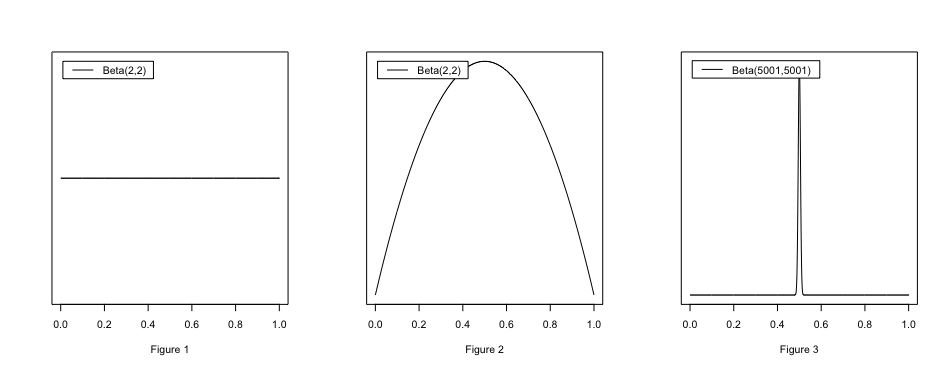
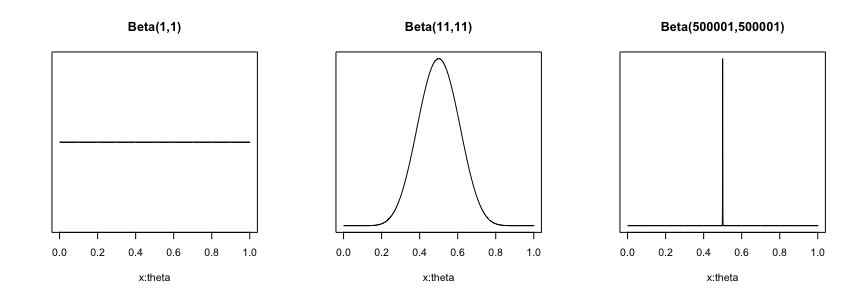
last before deleting intervalic approach and indeterminate prob section.

diff --git a/src/weight-chapter.md b/src/weight-chapter.md
@@ -183,7 +183,7 @@ I have argued for premise 2. I suggest that Popper intends premise 3 to be a con
 
 ## Severity as a Frequentist Notion of Weight -->
 
-# Weight as Higher Order Relevance
+# Higher Order Relevance
 
 Popper's argument contains a  sleight of hand that subtlely shifts between two ways of thinking about $N$'s probability. The argument begins by asking, rather innocuously, for your prior for $N$, but the ideal evidence $I$ Popper immediately introduced is not for $N$ but for the hypothesis $H_{0.5}$. Popper is explicit about *that*, but what he is not explicit about is *this*: he convinced us that $I$ is both evidentially ideal and relevant to $H_{0.5}$, but that's a misdirection, because immediately he starts talking the conditional probability on $I$, *not* of $H_{0.5}$, but of $N$. So Popper's paradox is *really* as follows:
 
@@ -239,23 +239,36 @@ Now these random variables can be modeled as follows:
 $$\theta \sim Beta(\alpha, \beta)$$
 $$X_1,...X_i \sim Bern(\theta)$$
 
-The Beta distribution has two parameters, $\alpha>0$ and $\beta>0$, which can be thought of as, in our context, our past experience about the coin's propensity. For instance, 
+The Beta distribution has two parameters, $\alpha>0$ and $\beta>0$, which can be thought of as, in our context, our past experience about the coin's propensity. For instance, $\alpha = \beta = 1$ is equivalent to a uniform distribution (Figure 1 below), which captures the Principle of Indifference. Furthermore, the Beta distribution, because it is a *conjugate prior* for the Bernoulli distribution, provides a simple way to update the prior distribution based on data gathered from a Bernoulli process. That is, take any arbitrary $\alpha$ and $\beta$ for the Beta distribution - the prior distribution $p(\theta)$ and some data $x$ gathered from a Bernoulli process. Its posterior distribution
 
-More important, it is a conjugate prior for the Bernoulli distribution, and this provides a simple way to update the prior distribution based on data gathered from a Bernoulli process. Consider some unknown , which is modeled by the beta distribution and a parameter for a Bernoulli distribution, and radome samples , that is
+$$ p(\theta|x) = \frac{p(\theta)p(x|\theta)}{\int p(\theta')p(x|\theta')}$$
+
+is simply $Beta(\alpha + k, \beta + n - k)$ - a Beta distribution with parameters $\alpha$ plus the number of heads $k$ and beta the number of tails.
+
+Furthermore, the Beta distribution is an expression of Laplace's rule of succession, discussed earlier. This is because its expected value has the form:
+
+$$E(\theta) = \frac{\alpha}{\alpha + \beta}$$
+
+Now, because of conjugacy, the *posterior* expected value is simply:
+
+$$E(\theta) = \frac{\alpha + k}{\alpha + \beta + n}$$
+
+where $x$ is the number of success and $n$ is the number of trials. If we assume a *uniform prior*, where both parameters equal to $1$, the above formula becomes:
 
 
+$$E(\theta) = \frac{1 + k}{2 + n}$$
 
-The posterior distribution
+That is, Laplace's rule of succession. So despite
 
-is simply beta distribution with parameters  and . In other words, we can simply update the prior distribution by adding the number of heads to  and the number of tails to .
+We can now reframe the paradox of ideal evidence using the Beta and Bernoulli distributions. Consider three beta distributions:
 
-Furthermore, the beta distribution with a uniform prior is an expression of Laplace's rule of succession. This is if  the expected value of  is
+1. $Beta(1,1)$:
+2. $Beta(11,11)$
+3. $Beta(500,001,500,001)$
 
-So when the prior parameters are both 1 and we have  heads out of  throws, the posterior distribution would be
+Note that all three distributions have the same expected values:
 
-That is, Laplace's rule of succession.
-
-We can now reframe the paradox of ideal evidence using the beta distribution. Consider three beta distributions: ,and : these distributions have the same mean:
+$$\frac{1 + 0}{2 + 0}=\frac{1 + 10}{2 + 10}=\frac{1 + 500000}{2 + 1000000}=\frac{1}{2}$$
 
 However, even though these distributions produce identical expected values, if we plot them, we can see that how they represent states of belief that are drastically different:
 
@@ -263,24 +276,28 @@ However, even though these distributions produce identical expected values, if w
 
 Intuitively, we can think of the first distribution as representing your state of belief about the probability of getting a head on the next flip. This distribution is plotted in Figure 1: note that it is wholly flat, capturing the sort of judgement of indifference that Keynes talks about. One finds no ground in thinking one probability is more credible than another.
 
-The second distribution,  can be seen as our state of belief after witnessing two flips of the coin, and one turn up heads and one tails. Naturally, the peak - the mode of the distribution - is at , which seems sensible because it reflects the evidence that exactly half of the samples is heads. But we can see that at this stage we are quite uncertain about , evidenced by the width of the distribution. While  is the peak, the area over the interval  is not substantially larger than the one over .
+The second distribution can be seen as our state of belief after witnessing 10 flips of the coin, and 5 turn up heads and 5 tails. Naturally, the peak - the mode of the distribution - is at $\theta = 0.5$, which seems sensible, because it reflects the evidence that exactly half of the samples is heads. But we can see that at this stage we are quite uncertain about $\theta$, evidenced by the width of the distribution. While $\theta = 0.5$ is the peak, there is a substantial area covering $\theta > 0.55$ and $\theta < 0.45$.
 
-The third distribution, modeling the state of belief after 1000 trials with 500 heads and 500 tails, is intended to be an approximation of Popper's ideal evidence scenario. The peak is again at , but this plot has a noticeably narrower spread: we are much more confident in our assessment that . Also notice that at this stage, any value of  that are either smaller than 0.4 or larger than 0.6 are considered as impossible after receiving the ideal evidence. This is  different than the second distribution, where values relatively far from  are still considered as  probable, indicated by the area underneath the curve.
+The third distribution, modeling the state of belief after one million trials with half of them being heads, is intended to be an approximation of Popper's ideal evidence scenario. The peak is again at $0.5$, but this plot has a noticeably narrower spread: we are much more confident in our assessment that the coin has an equal propensity to land on heads as tails. Also notice that at this stage, any value of $\theta$ other than $0.5$ are practically impossible after receiving the ideal evidence. This is in harmony with the MLE.
 
-To state these observations more precisely, we can calculate the exact probability using the cumulative distributions. Since we are dealing with continuous distributions, we can only deal with intervals of values, but we can provide a reasonably close approximations. For instance, conditional on the ideal evidence, we would be absolutely sure that the probability is between 0.46 and 0.54, and practically certain, with the probability of 0.95, that it is between 0.49 and 0.51. The relevant probabilities are summarized in the following table:
+To state these observations more precisely, we can calculate the exact probability using the corresponding cumulative distributions. Since Beta distributions are continuous distributions, we can only deal with intervals of values, but we can provide a reasonably close approximations. For instance, conditional on the ideal evidence, we would be absolutely sure that the probability is between 0.46 and 0.54, and practically certain, with the probability of 0.95, that it is between 0.49 and 0.51. The relevant probabilities are summarized in the following table:
 
 |      Distribution | $P(0.46<\theta<0.54)$ | $P(0.49<\theta<0.51)$ |
 | ----------------: | --------------------: | --------------------: |
 |       $Beta(1,1)$ |                $0.08$ |                $0.02$ |
-|       $Beta(2,2)$ |                $0.12$ |                $0.03$ |
-| $Beta(5001,5001)$ |                   $1$ |                $0.95$ |
+|       $Beta(11,11)$ |                $0.29$ |                $0.07$ |
+| $Beta(500001,500001)$ |                   $1$ |                $1$ |
 
 
-Now, let $E$ be the ideal evidence, $X_1,…X_{10000}$, where $\sum_{i=1}^{10000}X_i = 5000$, and let $\theta$ be the probability that the next toss will land a head. We now see that the following equality holds, since the left-hand side is $0.02$, and for the right it's $0.95$. :
+Now, let $E$ be the ideal evidence, $X_1,…X_{1000000}$, where $\sum_{i=1}^{1000000}X_i = 500000$, and let $\theta$ be the coin's propensity to land on heads. We now see that the following inequality holds, since the left-hand side is $0.02$, and for the right it's $1$.
 
 $$P(0.49<\theta<0.51) <  P(0.49<\theta<0.51|E)$$
 
-## The Resiliency Approach
+which satisfies the criterion of success stated at the end of the last section.
+
+To codify this finding, let us f
+
+## The Resiliency of HOR
 
 Peirce points out that the increase in evidential weight is associated with a certain *stability* of the degree of belief of the hypothesis in question. If I have in front of me an urn  where  is the proportion of black and  the proportion of white balls. If I randomly draw 2 balls from it with replacement and find one ball for each color, my intuitive estimate of  - call it  - would sensibly be somewhere around . But it should also be intuitively clear that the weight of the evidence for this belief is light. It would be irrational for me to fixate on this estimate : if I sample two more balls from the urn and they are both black, it would make sense for me to raise  considerably to . Thus,  is extremely *unstable* in light of new evidence.
 
